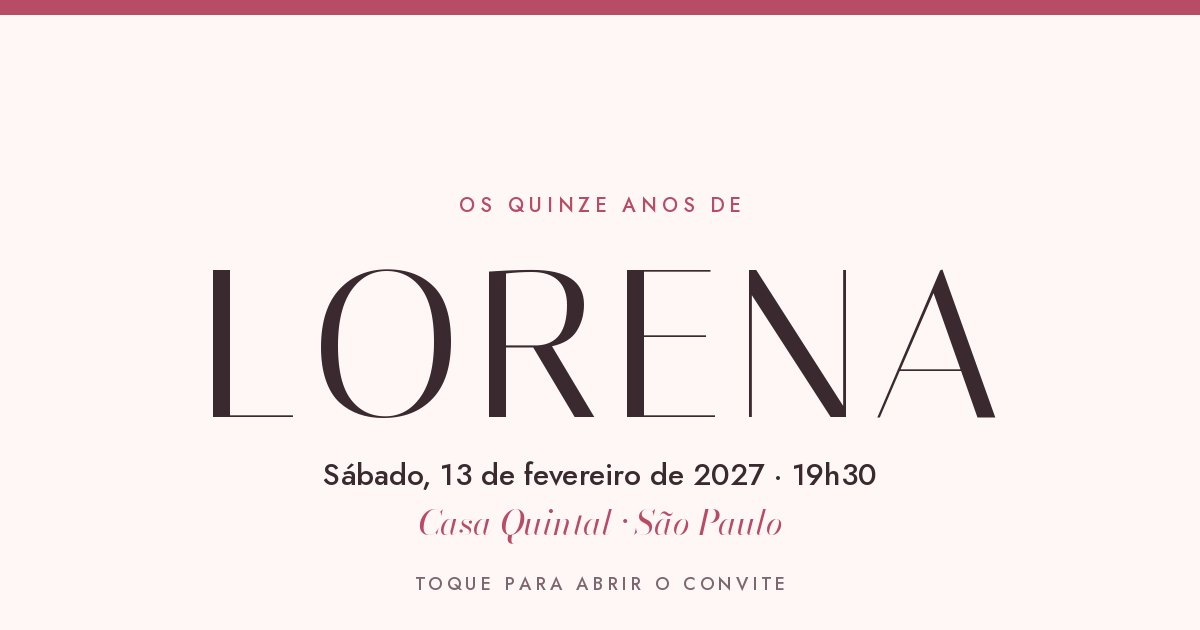
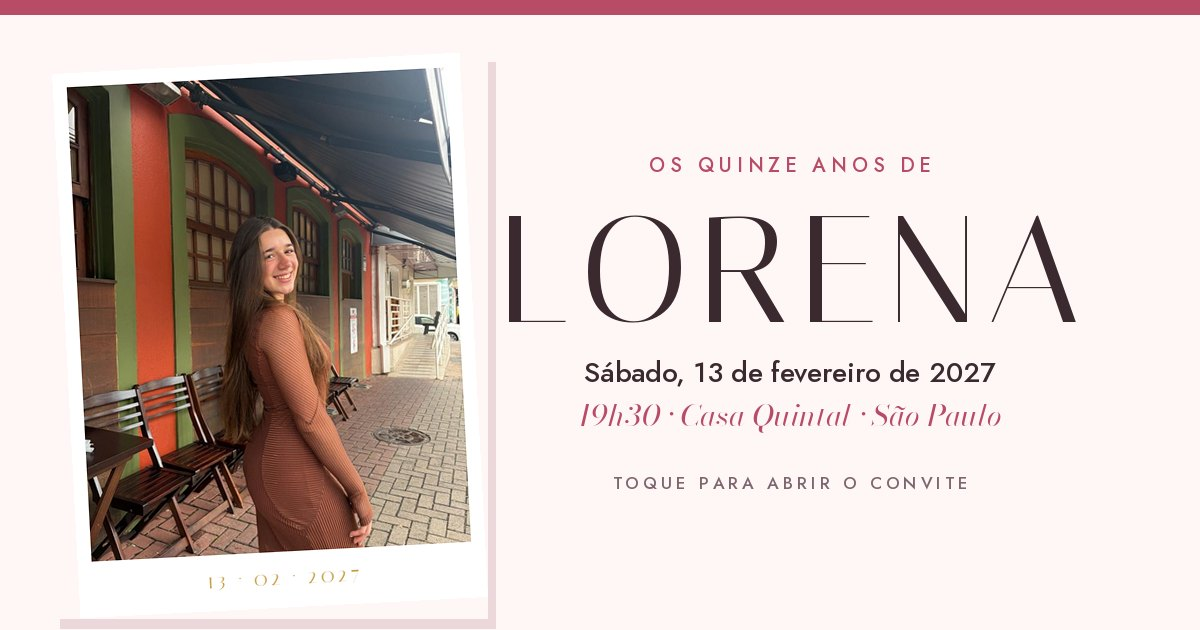
WhatsApp preview shows the new cover photo
Claude-Session: https://claude.ai/code/session_01H4FYBwtTJez72yoVn3SQiq

diff --git a/index.html b/index.html
@@ -11,7 +11,7 @@
 <meta property="og:url" content="https://15anosdalorena.com.br/">
 <meta property="og:title" content="Os 15 da Lorena">
 <meta property="og:description" content="Sábado, 13 de fevereiro de 2027, 19h30 · Casa Quintal, São Paulo. Abra o convite e confirme até 31 de dezembro.">
-<meta property="og:image" content="https://15anosdalorena.com.br/assets/og.jpg">
+<meta property="og:image" content="https://15anosdalorena.com.br/assets/og.jpg?v=2">
 <meta property="og:image:width" content="1200">
 <meta property="og:image:height" content="630">
 <meta property="og:locale" content="pt_BR">

diff --git a/tools/build_assets.py b/tools/build_assets.py
@@ -40,14 +40,23 @@ def selo(d, cx, cy, r, f):
     texto_centrado(d, (cx, cy - r * 0.55), '✦', f, GOLD)
 
 def og():
+    # Prévia do WhatsApp com a foto de capa (pedido da família, 2026-11-12).
     im = Image.new('RGB', (1200, 630), BG); d = ImageDraw.Draw(im)
     d.rectangle((0, 0, 1200, 14), fill=ROSE_DEEP)
-    selo(d, 600, 118, 48, fonte('italiana', 56))
-    texto_centrado(d, (600, 190), 'OS QUINZE ANOS DE', fonte('jost', 20), ROSE_DEEP, esp=5)
-    texto_centrado(d, (600, 222), 'LORENA', fonte('italiana', 210), INK, esp=12)
-    texto_centrado(d, (600, 452), 'Sábado, 13 de fevereiro de 2027 · 19h30', fonte('jost', 30), INK)
-    texto_centrado(d, (600, 496), 'Casa Quintal · São Paulo', fonte('bodoni', 34), ROSE_DEEP)
-    texto_centrado(d, (600, 570), 'TOQUE PARA ABRIR O CONVITE', fonte('jost', 18), MUTED, esp=4)
+    foto = ImageOps.exif_transpose(Image.open(os.path.join(A, 'fotos', 'capa.jpg'))).convert('RGB')
+    fw, fh = 380, 475
+    foto = ImageOps.fit(foto, (fw, fh), Image.LANCZOS, centering=(0.5, 0.3))
+    # polaroid: moldura branca, leve inclinação
+    pol = Image.new('RGB', (fw + 28, fh + 70), PAPER); pol.paste(foto, (14, 14))
+    pd = ImageDraw.Draw(pol); texto_centrado(pd, ((fw + 28) / 2, fh + 26), '13 · 02 · 2027', fonte('italiana', 22), GOLD, esp=3)
+    pol = pol.rotate(3, expand=True, fillcolor=BG, resample=Image.BICUBIC)
+    sombra = Image.new('RGB', pol.size, (236, 216, 219)); im.paste(sombra, (60, 62)); im.paste(pol, (52, 52))
+    cx = 790
+    texto_centrado(d, (cx, 150), 'OS QUINZE ANOS DE', fonte('jost', 20), ROSE_DEEP, esp=5)
+    texto_centrado(d, (cx, 182), 'LORENA', fonte('italiana', 150), INK, esp=10)
+    texto_centrado(d, (cx, 352), 'Sábado, 13 de fevereiro de 2027', fonte('jost', 28), INK)
+    texto_centrado(d, (cx, 392), '19h30 · Casa Quintal · São Paulo', fonte('bodoni', 30), ROSE_DEEP)
+    texto_centrado(d, (cx, 470), 'TOQUE PARA ABRIR O CONVITE', fonte('jost', 17), MUTED, esp=4)
     im.save(os.path.join(A, 'og.jpg'), 'JPEG', quality=86, optimize=True); print('og.jpg')
 
 def icones():
@@ -99,4 +108,5 @@ def fotos():
 if __name__ == '__main__':
     alvo = sys.argv[1] if len(sys.argv) > 1 else 'tudo'
     if alvo in ('tudo', 'fotos'): fotos()
+    if alvo == 'og': og()
     if alvo == 'tudo': og(); icones(); story(); ics()
